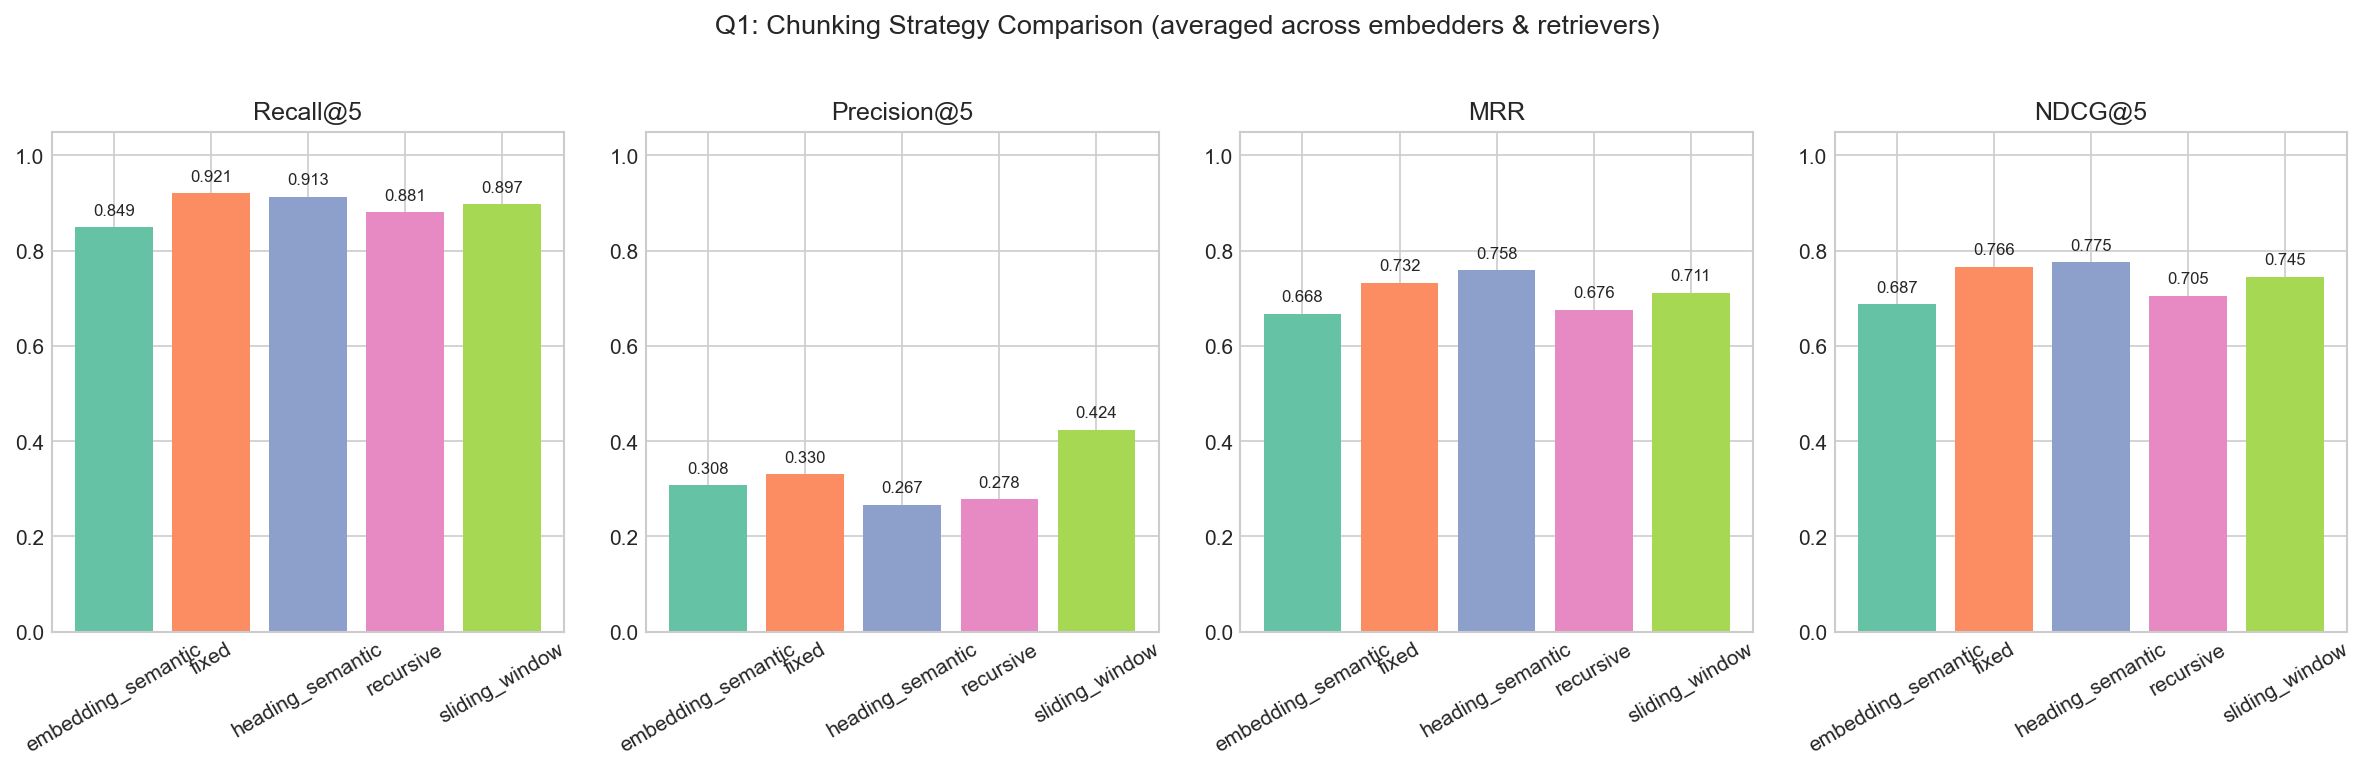
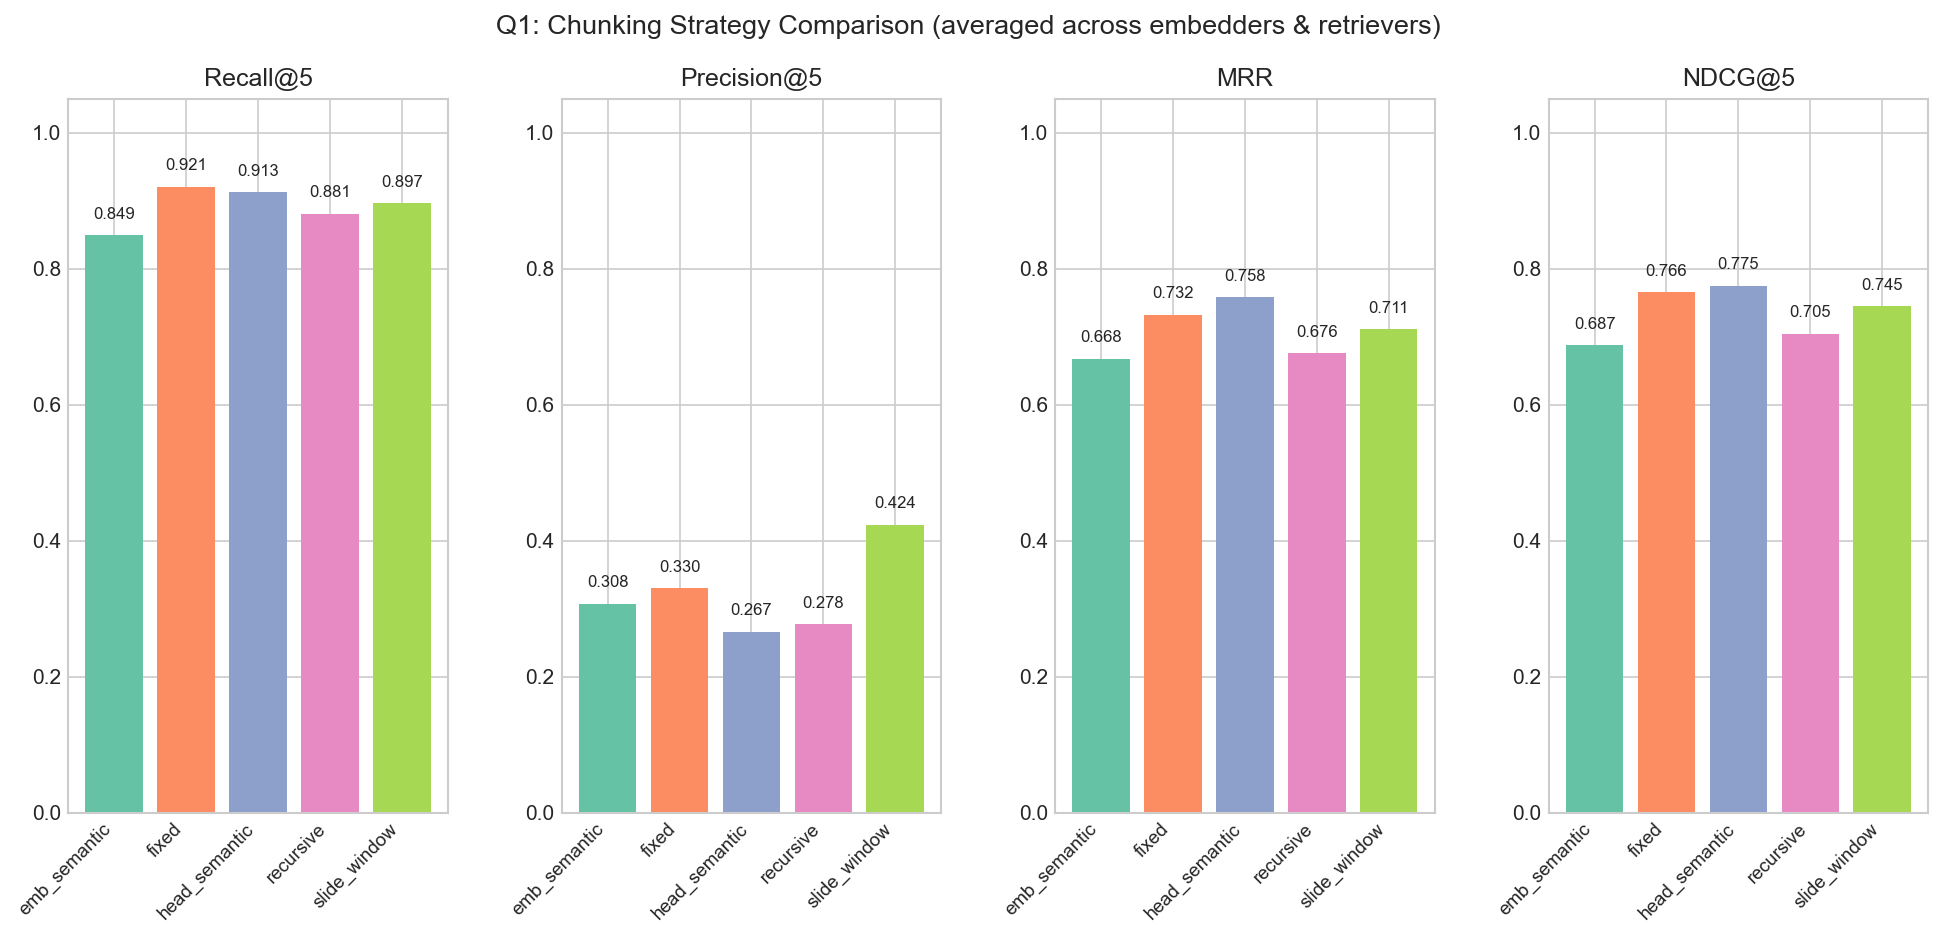
fix(p5): fix clipped x-axis labels in chunking comparison chart

diff --git a/src/visualization.py b/src/visualization.py
@@ -138,20 +138,31 @@ def plot_chunking_comparison(df: pd.DataFrame, output_dir: Path) -> Path:
         base = df[(~df["use_reranking"]) & (df["hybrid_alpha"].isna() | (df["hybrid_alpha"] == 0.7))]
         agg = base.groupby("chunking_strategy")[_METRICS].mean().reset_index()
 
-        fig, axes = plt.subplots(1, 4, figsize=(16, 5))
+        # Shorten strategy names for readability
+        short_names = {
+            "embedding_semantic": "emb_semantic",
+            "heading_semantic": "head_semantic",
+            "sliding_window": "slide_window",
+            "recursive": "recursive",
+            "fixed": "fixed",
+        }
+        agg["label"] = agg["chunking_strategy"].map(lambda x: short_names.get(x, x))
+
+        fig, axes = plt.subplots(1, 4, figsize=(16, 7))
         for i, metric in enumerate(_METRICS):
             ax = axes[i]
-            bars = ax.bar(agg["chunking_strategy"], agg[metric],
+            bars = ax.bar(agg["label"], agg[metric],
                           color=sns.color_palette("Set2", len(agg)))
             ax.set_title(_METRIC_LABELS[metric], fontsize=12)
             ax.set_ylim(0, 1.05)
-            ax.tick_params(axis="x", rotation=30)
+            ax.set_xticks(range(len(agg)))
+            ax.set_xticklabels(agg["label"], ha="right", fontsize=9, rotation=45)
             for bar in bars:
                 ax.text(bar.get_x() + bar.get_width() / 2, bar.get_height() + 0.02,
                         f"{bar.get_height():.3f}", ha="center", va="bottom", fontsize=8)
         fig.suptitle("Q1: Chunking Strategy Comparison (averaged across embedders & retrievers)",
-                     fontsize=13, y=1.02)
-        fig.tight_layout()
+                     fontsize=13)
+        fig.subplots_adjust(bottom=0.22, top=0.90, wspace=0.3)
         return _save_fig(fig, output_dir, "chunking_comparison")
 
 
